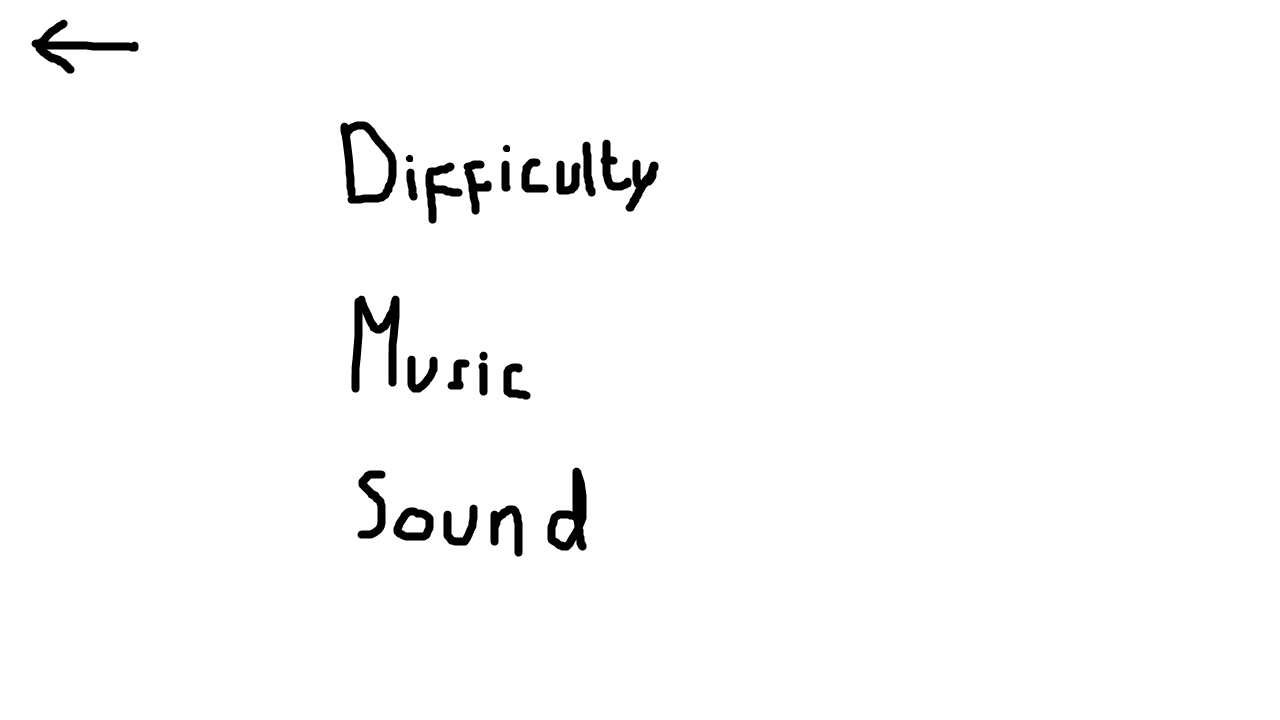
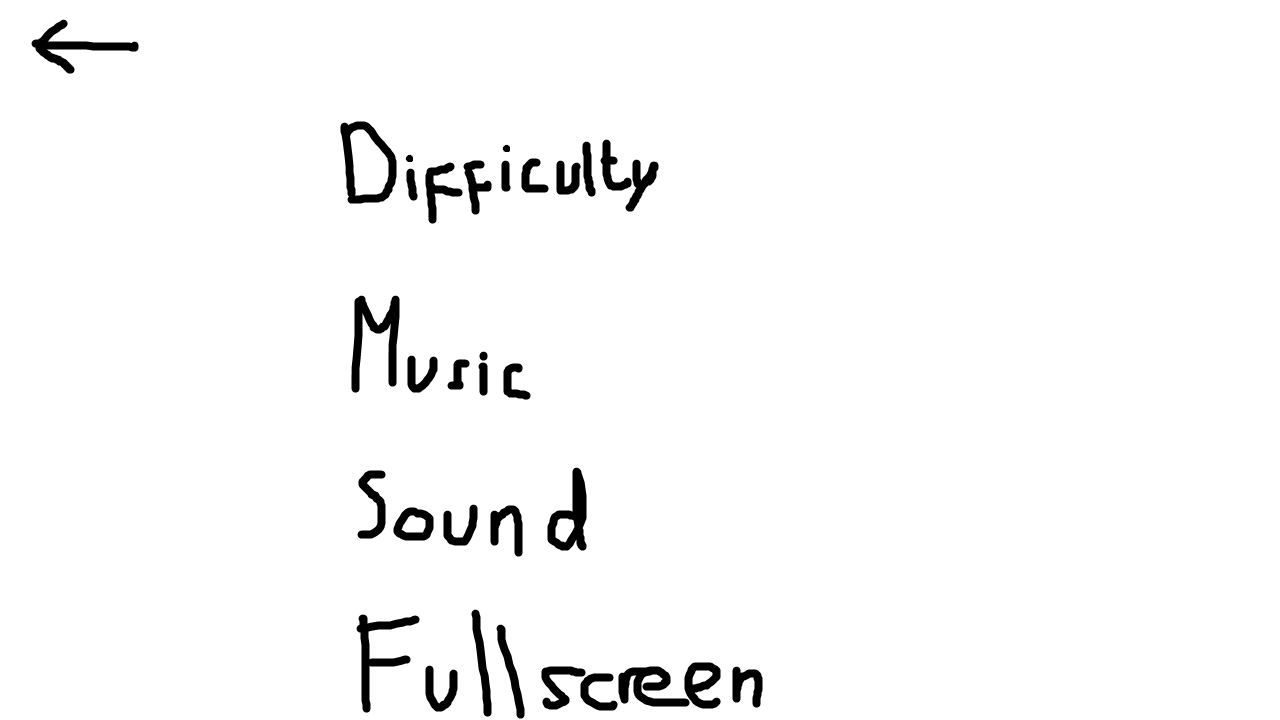
Added Fullscreen setting to SettingsScreen

Changed region(s): [[0.2812, 0.8556, 0.5938, 1.0]]

diff --git a/src/SeriousGame/Game1.cs b/src/SeriousGame/Game1.cs
@@ -33,15 +33,16 @@ namespace SeriousGame
             graphics.PreferredBackBufferWidth = (int)ScreenManager.Instance.Dimensions.X;
             graphics.PreferredBackBufferHeight = (int)ScreenManager.Instance.Dimensions.Y;
 
-			if (true || Environment.OSVersion.ToString ().Substring (0, 4) == "Unix") {
-				graphics.IsFullScreen = false;
-			} 
-			else {
-				graphics.IsFullScreen = true;
-			}
+            setFullScreen(SettingsManager.Instance.Fullscreen);
 				
             graphics.ApplyChanges();
             base.Initialize();
+        }
+
+        public void setFullScreen(bool fullscreen)
+        {
+            graphics.IsFullScreen = fullscreen;
+            graphics.ApplyChanges();
         }
 
         /// <summary>
@@ -55,7 +56,7 @@ namespace SeriousGame
 
             TextureManager.Instance.Load(Content);
             FontManager.Instance.Load(Content);
-            ScreenManager.Instance.Load();
+            ScreenManager.Instance.Load(this);
         }
 
         /// <summary>
@@ -75,7 +76,7 @@ namespace SeriousGame
         protected override void Update(GameTime gameTime)
         {
             InputManager.Update();
-            ScreenManager.Instance.Update(gameTime, this);
+            ScreenManager.Instance.Update(gameTime);
             base.Update(gameTime);
         }
 

diff --git a/src/SeriousGame/Screens/SettingsScreen.cs b/src/SeriousGame/Screens/SettingsScreen.cs
@@ -35,6 +35,10 @@ namespace SeriousGame
             {
                 SettingsManager.Instance.Sound = !SettingsManager.Instance.Sound;
             }
+            else if (InputManager.IsClicking(new Rectangle(340, 610, 650, 100)))
+            {
+                SettingsManager.Instance.Fullscreen = !SettingsManager.Instance.Fullscreen;
+            }
         }
         
         private void DrawSetting(SpriteBatch spriteBatch, string text, Vector2 position){
@@ -69,6 +73,13 @@ namespace SeriousGame
                 sound = "off";
             }
             DrawSetting(spriteBatch, sound, new Vector2(702, 470));
+
+            string fullscreen = "on";
+            if (!SettingsManager.Instance.Fullscreen)
+            {
+                fullscreen = "off";
+            }
+            DrawSetting(spriteBatch, fullscreen, new Vector2(810, 625));
         }
     }
 }

diff --git a/src/SeriousGame/Managers/ScreenManager.cs b/src/SeriousGame/Managers/ScreenManager.cs
@@ -35,7 +35,7 @@ namespace SeriousGame
             }
         }
 
-        public Game Game;
+        public Game1 Game;
 
         private static ScreenManager _instance;
         public static ScreenManager Instance
@@ -57,9 +57,10 @@ namespace SeriousGame
             rightBound = Dimensions.X - 200;
         }
         
-        public void Load()
+        public void Load(Game1 game)
         {
             CurrentScreen = new SplashScreen();
+            Game = game;
         }
 
         public void UnloadContent()
@@ -67,7 +68,7 @@ namespace SeriousGame
             
         }
 
-        public void Update(GameTime gameTime, Game1 game)
+        public void Update(GameTime gameTime)
         {
             CurrentScreen.Update(gameTime);
         }

diff --git a/src/SeriousGame/Managers/SettingsManager.cs b/src/SeriousGame/Managers/SettingsManager.cs
@@ -23,5 +23,19 @@ namespace SeriousGame
         public int Difficulty = 1;
         public bool Music = true;
         public bool Sound = true;
+
+        private bool fullscreen = false;
+        public bool Fullscreen
+        {
+            get
+            {
+                return fullscreen;
+            }
+            set
+            {
+                fullscreen = value;
+                ScreenManager.Instance.Game.setFullScreen(value);
+            }
+        }
     }
 }
